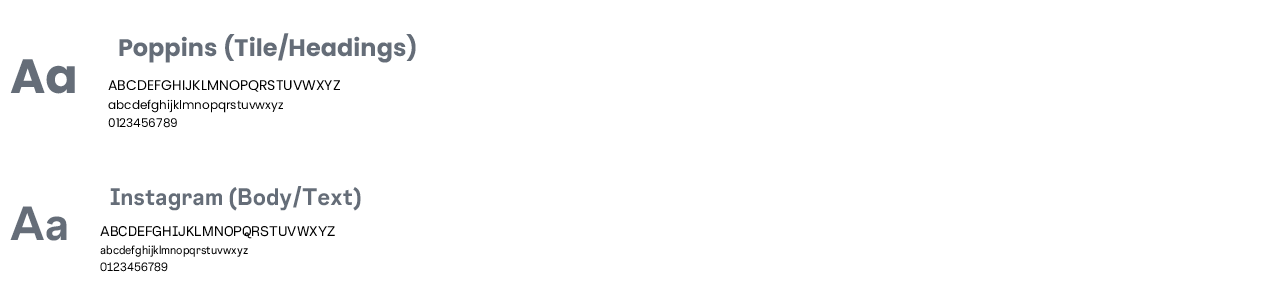
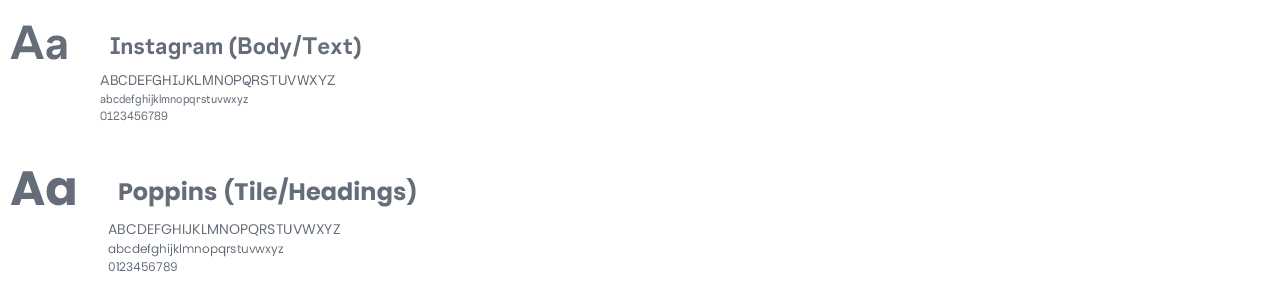
update headlines

Changed region(s): [[0.0, 0.0915, 0.3438, 0.4271], [0.0, 0.5797, 0.3438, 0.9153]]

diff --git a/src/main/resources/io/github/gleidsonmt/glad/css/typographic.css b/src/main/resources/io/github/gleidsonmt/glad/css/typographic.css
@@ -17,14 +17,13 @@
 
 Text {
     -fx-font-family: "Poppins";
+    -fx-fill: -text-color;
 }
 
 .text {
     -fx-fill: -text-color;
     -fx-font-smoothing-type: gray; /* Works better with poppins */
-
 }
-
 
 /* @Font */
 
